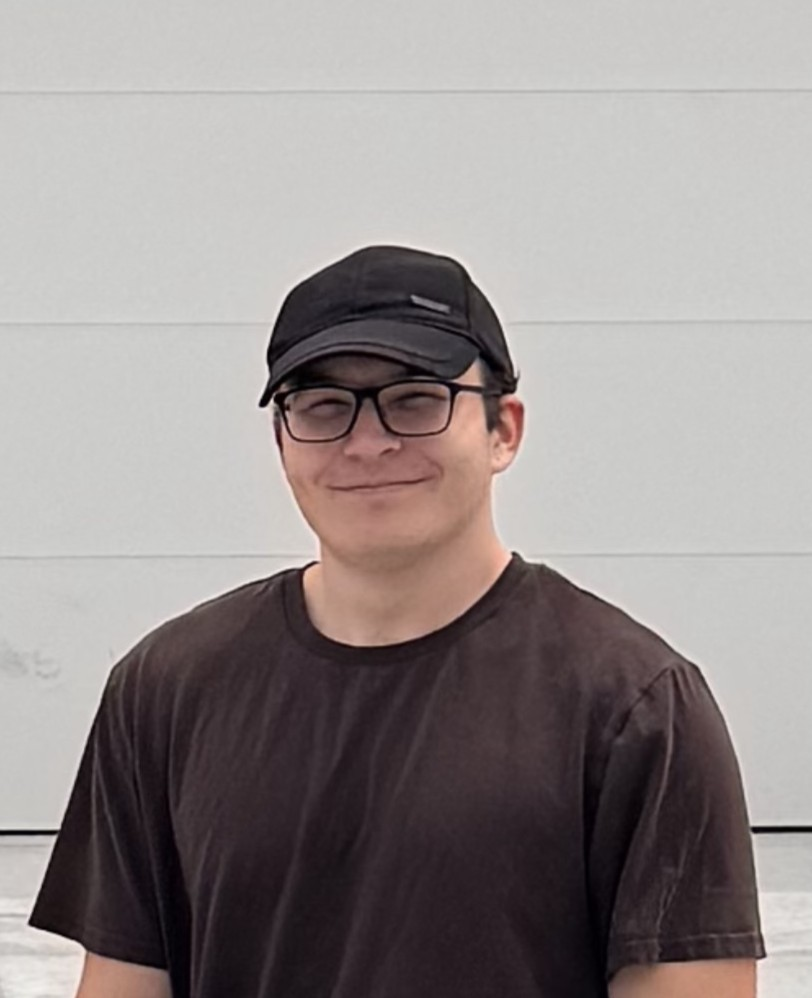
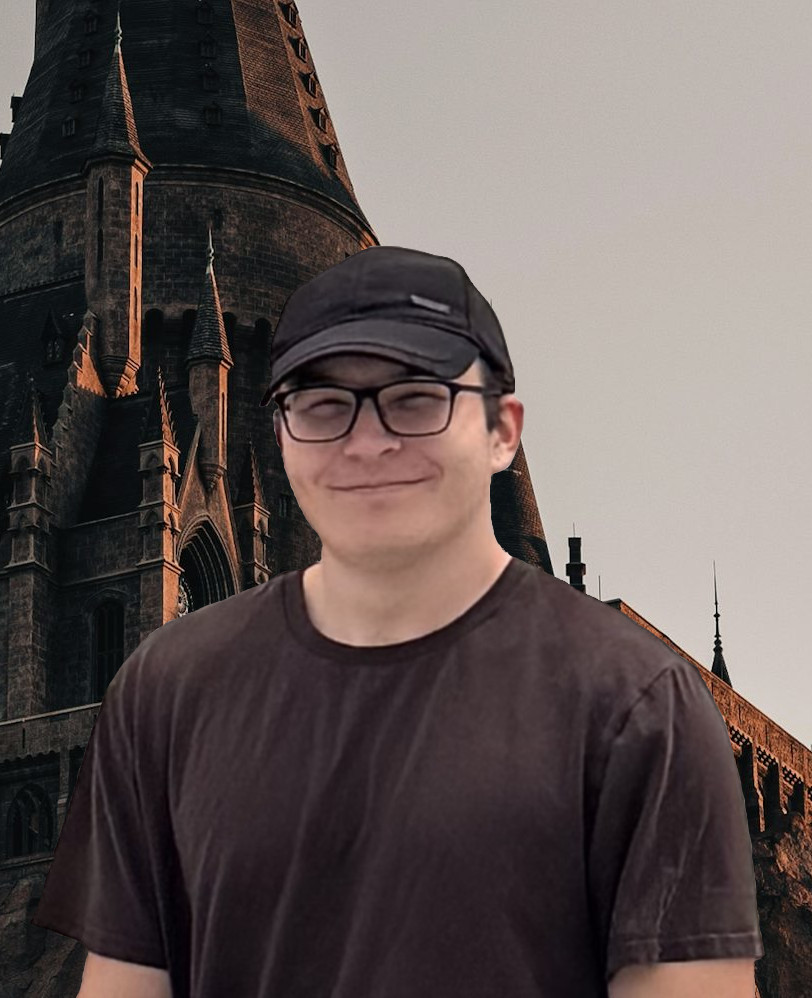
Finished Brayden portfolio

diff --git a/portfolios/Brayden.html b/portfolios/Brayden.html
@@ -51,23 +51,27 @@
     </header>
     <main class="braydenport-container">
         <section class="braydenport-section">
+            <img class="braydenport-photo-background" src="../images/brayden2.jpg" alt="Photo of Brayden Peterson">
             <img class="braydenport-photo" src="../images/brayden.jpg" alt="Photo of Brayden Peterson">
+            
             <div class="braydenport-bio">
                 <h2>Dr. Brayden Peterson</h2>
                 <p>Dr. Brayden Peterson has been the Dean of Ghoul Studies since 2019, earning his PhD in Necromancy from the famous Hogwarts School of Witchcraft and Wizardry. With his vast knowledge of necromancy, Dr. Peterson has worked tirelessly since to advance magical techniques in order to innovate the magical world and separate us further from the extreme ordinary of the muggles.</p>
-        </section>
-        <section class="braydenport-section">
+                <p>Dr. Peterson's main focus throughout his courses is to uncover the potential of ghouls and how they can help wizards and witches across the world accomplish great feats. He believes that necromancy and the studies of all kinds of ghouls may be the key to uncovering the roots of magic.</p>
+                <p>Lectures are open to students and outside parties who are pure-bloods only.</p>
+            </section>
+        <section class="braydenport-section braydenport-courses">
             <div>
-                <h2>Course Overviews</h2>
+                <h2 class="braydenport-subheader">Course Overviews</h2>
                 <dl>
-                    <dt>GS-1010: Introduction to Ghoul Studies</dt>
+                    <dt><h2>GS-1010: Introduction to Ghoul Studies</h2></dt>
                     <dd>An introduction course to the studies of ghouls and necromancy covering the biology, behavior, and role of ghouls in the magical ecosystem.</dd>
 
-                    <dt>GS-1020: Ghoul History</dt>
+                    <dt><h2>GS-1020: Ghoul History</h2></dt>
                     <dd>This course deeply explores the history and background of how the will of ghouls came to be harnessed and the power of the undead has been progressively improving with the advances in magical techniques.</dd>
 
-                    <dt>Advanced Ghoul Research Methods</dt>
-                    <dd>A practical course focusing on field research techniques, data collection, and analysis specific to ghoul populations.</dd>
+                    <dt><h2>GS-2010: Intoduction to Necromancy</h2></dt>
+                    <dd>An introduction course to commanding the dead. Necromancy is about transfering the flow of energy to the will of the dead. In this course we cover the very basics, starting with simple clay golems.</dd>
             </div>
             
         </section>

diff --git a/styles.css b/styles.css
@@ -265,7 +265,7 @@ footer a:hover {
     color: var(--header-color);
     font-size: 3.5em;
     text-align: center;
-    margin-bottom: 0.25em;
+    margin: 0 0.5em 0.25em 0.5em;
 }
 
 .braydenport-subheader {
@@ -273,17 +273,20 @@ footer a:hover {
     color: var(--subheader-color);
     font-size: 2em;
     text-align: center;
-    margin-bottom: 0.25em;
+    margin: 0 0.5em 0.25em 0.5em;
 }
 
 .braydenport-container {
     padding: 2em;
+    padding-bottom: 0;
 }
 
 .braydenport-section {
     margin-bottom: 2em;
     clear: both;
     padding-top: 2em;
+    color: var(--primary-text-color);
+    font-family: var(--font-cormorant);
 }
 
 /* Don't add any extra padding to the first section, it messed up consistency between my deans and portfolio pages */
@@ -291,7 +294,7 @@ footer a:hover {
     padding-top: 0;
 }
 
-.braydenport-photo {
+.braydenport-photo-background {
     width: 300px;
     object-fit: cover;
     border-top-left-radius: 50%;
@@ -301,13 +304,42 @@ footer a:hover {
     float: left;
     margin-right: 2em;
 }
+.braydenport-photo {
+    width: 300px;
+    object-fit: cover;
+    border-top-left-radius: 50%;
+    border-top-right-radius: 50%;
+    border: 4px solid var(--highlight-gold-color);
+    box-shadow: var(--highlight-red-color) 0px 5px 10px;
+    float: left;
+    margin-right: 2em;
+    position: absolute;
+    left: 2em;
+    animation: braydenport-magic-portrait 6s linear infinite alternate;
+}
 
 .braydenport-bio {
     font-size: 1.25em;
-    color: var(--primary-text-color);
-    font-family: var(--font-cormorant);
-    font-weight: bold;
     text-align: justify;
+}
+
+.braydenport-courses dt {
+    margin-top: 1em;
+}
+
+.braydenport-courses dd {
+    font-size: 1.25em;
+    margin-left: 3em;
+    margin-bottom: 1em;
+}
+
+@keyframes braydenport-magic-portrait {
+    0%, 60% {
+        opacity: 1;
+    }
+    75%, 100% {
+        opacity: 0;
+    }
 }
 
 /* Media query for brayden portfolio for mobile devices */
@@ -317,5 +349,16 @@ footer a:hover {
         display: block;
         width: 50%;
         margin: 0 auto 2em auto;
+        left: auto;
+        position: relative;
+    }
+    /* Had to do some yucky calculations to get background photo aligned with front photo on mobile*/
+    .braydenport-photo-background {    
+        float: none;
+        display: block;
+        width: calc(50% - 2em);
+        left: calc(25% + 1em);
+        margin: 0 auto 2em auto;
+        position: absolute;
     }
 }

diff --git a/deans.html b/deans.html
@@ -80,7 +80,7 @@
                 <li>
                     <a class="dean-link" href="portfolios/Brayden.html">
                         <div class="dean-card">
-                            <img class="dean-photo" src="images/brayden.jpg" alt="Photo of Brayden Peterson">
+                            <img class="dean-photo" src="images/brayden-hogwarts.jpg" alt="Photo of Brayden Peterson">
                             <div class="dean-info">
                                 <h3 class="dean-name">Dr. Brayden Peterson</h3>
                                 <p class="dean-description">Dean of Ghoul Studies</p>
